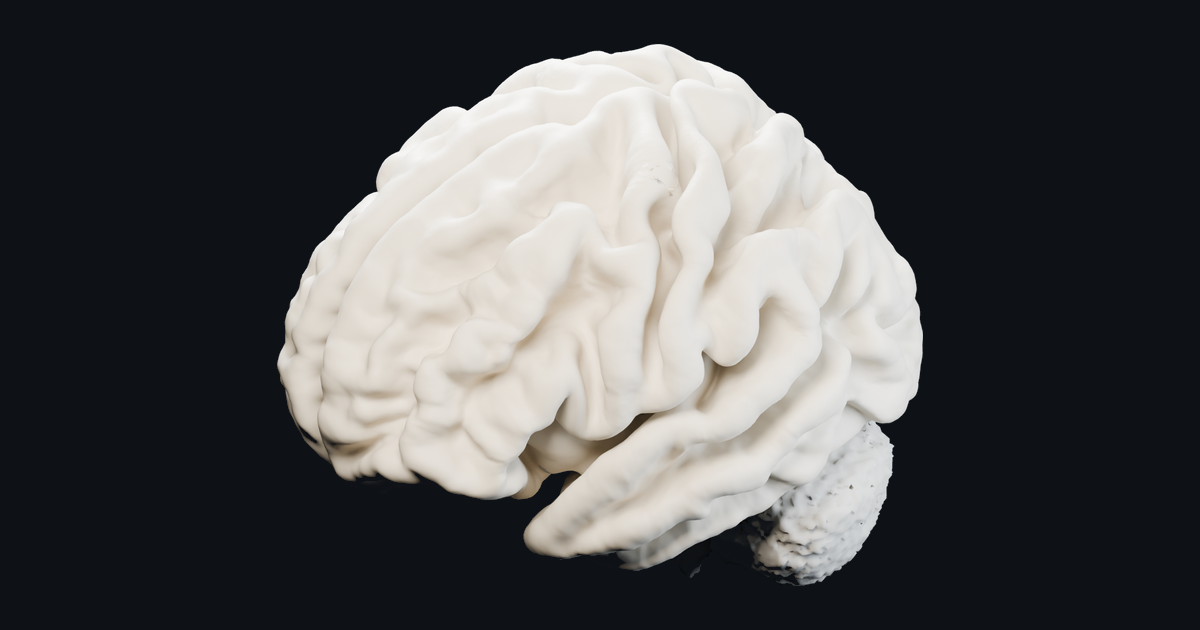
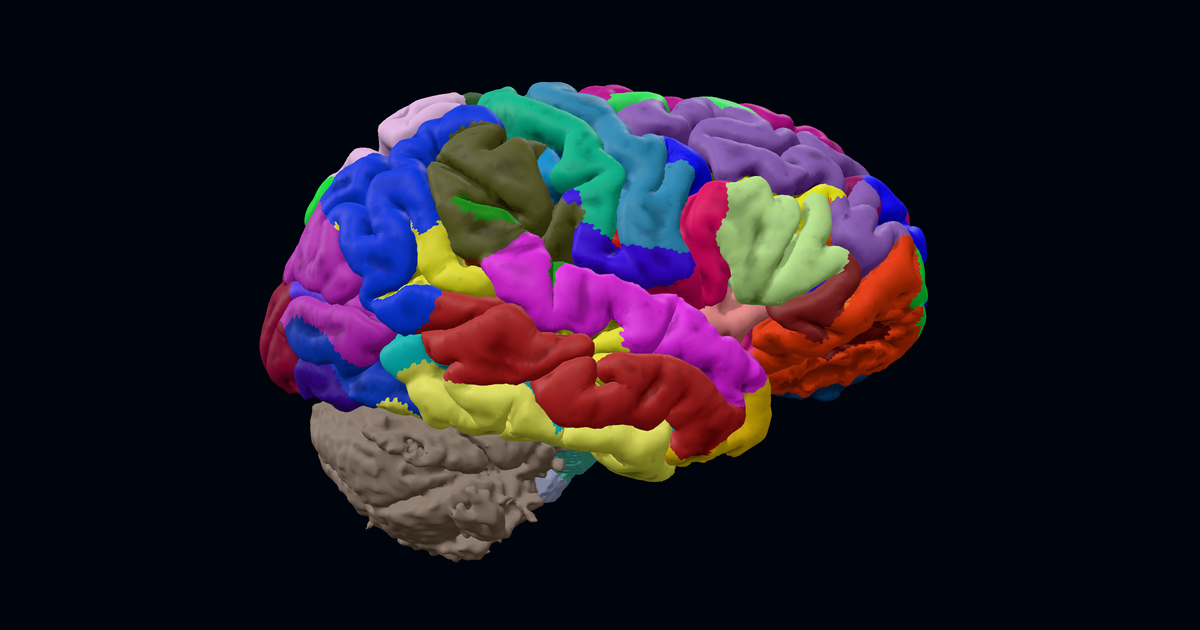
Fix stale model cache after deploys; update link preview image

diff --git a/viewer/service-worker.js b/viewer/service-worker.js
@@ -9,12 +9,12 @@
  * a previous deploy paired with a freshly deployed bundle fails to start — and
  * the wrong one for a reader who opens the atlas twice in a lecture.
  *
- * So freshness is settled by the cache's *name* rather than by revalidating
- * each file. `MODEL_VERSION` is a hash of what the published manifests say, so
- * publishing a new brain opens a new cache and the old one is deleted, while
- * deploying a code change alone leaves the model cache exactly where it is.
- * Within one version the bytes cannot have changed, so serving them from
- * storage without asking is not a guess.
+ * So freshness is settled by the URL rather than by revalidating each file.
+ * The page asks for every model file with `?v=<model version>`, a hash of the
+ * published model files, and entries are keyed by that full URL. A worker left
+ * over from the previous deploy still controls the first load after a new one;
+ * keyed by path alone it answered the new manifest with the old geometry.
+ * Deploying a code change alone leaves the version, and the cache, alone.
  *
  * Nothing is precached. A first visit fetches what it always did, at the speed
  * it always did, and fills the cache as it goes.
@@ -44,20 +44,31 @@ self.addEventListener('activate', event => {
 self.addEventListener('fetch', event => {
   const { request } = event;
   if (request.method !== 'GET') return;
+  // The page carries the model version its requests ask for, and GitHub Pages
+  // lets the browser keep it ten minutes. A stale page asks for the previous
+  // deploy's anatomy by name and pairs it with the current manifest, so the
+  // page is always revalidated; offline, the stored copy still opens.
+  if (request.mode === 'navigate') {
+    event.respondWith(fetch(request.url, { cache: 'no-cache', credentials: 'same-origin' })
+      .then(response => (response.redirected ? fetch(request) : response))
+      .catch(() => fetch(request)));
+    return;
+  }
   const url = new URL(request.url);
   if (url.origin !== self.location.origin || !CACHEABLE.test(url.pathname)) return;
 
   event.respondWith((async () => {
+    const key = url.pathname + url.search;
     const cache = await caches.open(MODEL_CACHE);
-    const stored = await cache.match(url.pathname);
+    const stored = await cache.match(key);
     if (stored) return stored;
-    // `no-cache` on the app's own request would defeat the point of storing
-    // this, and within a version there is nothing to revalidate against.
-    const response = await fetch(url.pathname, { cache: 'default' });
+    // Revalidate: the HTTP cache may still hold the previous deploy's bytes,
+    // and storing those under this version would pin them until the next one.
+    const response = await fetch(key, { cache: 'no-cache' });
     // A partial or failed response must not become the copy every later visit
     // gets; let the app see the error and try again next time.
     if (response.ok && response.status === 200) {
-      cache.put(url.pathname, response.clone()).catch(() => {});
+      cache.put(key, response.clone()).catch(() => {});
     }
     return response;
   })());

diff --git a/vite.config.js b/vite.config.js
@@ -7,8 +7,29 @@ import { parse } from 'yaml';
 
 const root = fileURLToPath(new URL('.', import.meta.url));
 
+/*
+ * One hash over every published model file. Hashing only the manifests missed
+ * geometry: the cortex and interior layers carry no checksum of their own.
+ */
+function modelVersion() {
+  const models = resolve(root, 'public/models');
+  const digest = createHash('sha256');
+  const walk = dir => {
+    for (const entry of readdirSync(dir, { withFileTypes: true }).sort((a, b) => a.name.localeCompare(b.name))) {
+      const path = resolve(dir, entry.name);
+      if (entry.isDirectory()) walk(path);
+      else digest.update(entry.name).update(readFileSync(path));
+    }
+  };
+  if (existsSync(models)) walk(models);
+  return digest.digest('hex').slice(0, 16);
+}
+
+const MODEL_VERSION = modelVersion();
+
 export default defineConfig({
   base: '/neuroatlas/',
+  define: { __MODEL_VERSION__: JSON.stringify(MODEL_VERSION) },
   build: {
     target: 'es2022',
     rollupOptions: {
@@ -45,32 +66,16 @@ export default defineConfig({
       },
     },
     {
-      /*
-       * Emit the service worker, stamped with a version derived from what the
-       * published manifests say rather than from this build. A code-only
-       * deploy then leaves a reader's cached anatomy alone; republishing a
-       * brain replaces it.
-       */
+      name: 'model-version-in-html',
+      transformIndexHtml: html => html.replace('__MODEL_VERSION__', MODEL_VERSION),
+    },
+    {
+      // Emit the service worker, stamped with the same model version the page
+      // puts on its requests.
       name: 'model-service-worker',
       closeBundle() {
-        const models = resolve(root, 'dist/models');
-        if (!existsSync(models)) return;
-        const digest = createHash('sha256');
-        // The manifests carry a checksum per published file, so hashing them
-        // covers every asset without reading a hundred megabytes of geometry.
-        for (const name of readdirSync(models).sort()) {
-          for (const file of ['manifest.json', 'tissue-labels.json', 'volumes.json']) {
-            const path = resolve(models, name, file);
-            if (existsSync(path)) digest.update(readFileSync(path));
-          }
-        }
-        const index = resolve(root, 'dist/models/anatomies.json');
-        if (existsSync(index)) digest.update(readFileSync(index));
         const source = readFileSync(resolve(root, 'viewer/service-worker.js'), 'utf8');
-        writeFileSync(
-          resolve(root, 'dist/sw.js'),
-          source.replace('__MODEL_VERSION__', digest.digest('hex').slice(0, 16)),
-        );
+        writeFileSync(resolve(root, 'dist/sw.js'), source.replace('__MODEL_VERSION__', MODEL_VERSION));
       },
     },
   ],

diff --git a/viewer/service-worker.test.js b/viewer/service-worker.test.js
@@ -38,8 +38,10 @@ function bootWorker({ version = 'testversion', origin = 'https://example.org' } 
   };
 
   const responses = new Map();
-  const fetchStub = async url => {
+  const fetchOptions = [];
+  const fetchStub = async (url, options) => {
     fetched.push(String(url));
+    fetchOptions.push(options);
     const made = responses.get(String(url))
       ?? { ok: true, status: 200, body: `bytes:${url}` };
     return { ...made, clone: () => ({ ...made }) };
@@ -49,14 +51,14 @@ function bootWorker({ version = 'testversion', origin = 'https://example.org' } 
   new Function('self', 'caches', 'fetch', 'URL',
     SOURCE.replace('__MODEL_VERSION__', version))(self, caches, fetchStub, URL);
 
-  const request = (url, method = 'GET') => {
+  const request = (url, method = 'GET', mode = 'cors') => {
     const handler = listeners.get('fetch');
     let answered;
-    handler({ request: { method, url }, respondWith: promise => { answered = promise; } });
+    handler({ request: { method, url, mode }, respondWith: promise => { answered = promise; } });
     return answered;
   };
 
-  return { self, listeners, storage, fetched, responses, request, caches };
+  return { self, listeners, storage, fetched, fetchOptions, responses, request, caches };
 }
 
 const modelUrl = (origin, file) => `${origin}/neuroatlas/models/bert/${file}`;
@@ -141,4 +143,30 @@ test('it takes over immediately rather than waiting for every tab to close', () 
   const worker = bootWorker();
   worker.listeners.get('install')({});
   assert.ok(worker.self.skipped);
+});
+
+test('a copy stored for one model version never answers a request for another', async () => {
+  const worker = bootWorker();
+  const url = modelUrl('https://example.org', 'cortex-destrieux.glb');
+  await worker.request(`${url}?v=old`);
+  await worker.request(`${url}?v=new`);
+  assert.deepEqual(worker.fetched, [
+    '/neuroatlas/models/bert/cortex-destrieux.glb?v=old',
+    '/neuroatlas/models/bert/cortex-destrieux.glb?v=new',
+  ]);
+});
+
+test('filling the cache revalidates instead of trusting the HTTP cache', async () => {
+  const worker = bootWorker();
+  await worker.request(modelUrl('https://example.org', 'learning.glb'));
+  assert.equal(worker.fetchOptions[0].cache, 'no-cache');
+});
+
+test('the page itself is always revalidated, so its model version is current', async () => {
+  const worker = bootWorker();
+  const answered = worker.request('https://example.org/neuroatlas/', 'GET', 'navigate');
+  assert.ok(answered, 'navigations are answered by the worker');
+  await answered;
+  assert.deepEqual(worker.fetched, ['https://example.org/neuroatlas/']);
+  assert.equal(worker.fetchOptions[0].cache, 'no-cache');
 });

diff --git a/viewer/app.js b/viewer/app.js
@@ -3,6 +3,7 @@ import { createCatalog } from './catalog/catalog.js';
 import { loadClinicalCatalog } from './clinical/load.js';
 import { openClinicalRegion } from './clinical/navigation.js';
 import { BrainAtlas } from './model/brain-atlas.js';
+import { reloadWithoutStoredModels } from './model/published-assets.js';
 import { VIEW_DIRECTIONS, fitDistance, frameTo, upFor } from './render/camera-views.js';
 import { DOLLY_KEYS, ORBIT_KEYS, dolliedPosition, orbitedPosition } from './render/keyboard-orbit.js';
 import { createPicker } from './render/picking.js';
@@ -92,10 +93,13 @@ export async function startApp() {
   // The colophon links the manifest of the brain actually on screen, which is
   // not knowable until the index has been read.
   document.getElementById('provenance')?.setAttribute('href', manifestUrl);
+  // The layers download in parallel. Once one has failed, the other's
+  // progress must not paint "Loading" back over the error.
+  let loadFailed = false;
   const model = await BrainAtlas.load(manifestUrl, wanted.atlas, {
     detail: wanted.detail,
     onProgress: progress => {
-      if (!progress?.total) return;
+      if (loadFailed || !progress?.total) return;
       session.setProgress({ loaded: progress.loaded, total: progress.total });
       const bar = document.getElementById('stage-bar');
       const message = document.getElementById('stage-message');
@@ -105,6 +109,9 @@ export async function startApp() {
       message.textContent = t(initialLang, 'viewport')
         .loadingWithTotal(progress.loaded, progress.total);
     },
+  }).catch(error => {
+    loadFailed = true;
+    throw error;
   });
 
   const catalog = createCatalog(model.manifest, initialLang);
@@ -639,7 +646,7 @@ export async function startApp() {
   chrome = createViewportChrome({
     networks: model.manifest.networks,
     onView: applyView,
-    onRetry: () => globalThis.location.reload(),
+    onRetry: reloadWithoutStoredModels,
     onSnapshot,
   });
   chrome.setViewport(scene.visibleRect);

diff --git a/index.html b/index.html
@@ -20,7 +20,7 @@
     <meta property="og:image" content="https://joshuaduq.github.io/neuroatlas/preview.png" />
     <meta property="og:image:width" content="1200" />
     <meta property="og:image:height" content="630" />
-    <meta property="og:image:alt" content="A full-resolution reconstruction of one person's cerebral cortex and cerebellum, lit from the left on a dark field, with every gyrus and sulcus of the source surface visible." />
+    <meta property="og:image:alt" content="A full-resolution reconstruction of one person's right cerebral hemisphere and cerebellum, seen from the side on a dark field, with each Destrieux cortical region in its own colour." />
     <meta name="twitter:card" content="summary_large_image" />
     <!-- Matches --surface-base in dark mode (default layout). -->
     <meta name="theme-color" content="#1c222b" />
@@ -38,10 +38,12 @@
         // Same prefix as vite.config.js `base`, so a missing trailing slash
         // on the page URL cannot send 25 MB at the site root.
         var root = '/neuroatlas/';
+        // Keyed by the plain URL, fetched with the model version, as `fetchPublished` does.
+        var version = '__MODEL_VERSION__';
         function start(file) {
           var url = new URL(root + file, location.origin).href;
           if (!window.__neuroatlasAssets[url]) {
-            window.__neuroatlasAssets[url] = fetch(url, { cache: 'no-cache', priority: 'high' });
+            window.__neuroatlasAssets[url] = fetch(url + '?v=' + version, { cache: 'no-cache', priority: 'high' });
           }
           return window.__neuroatlasAssets[url];
         }

diff --git a/viewer/model/published-assets.js b/viewer/model/published-assets.js
@@ -13,7 +13,35 @@
  */
 export const REVALIDATE = { cache: 'no-cache', priority: 'high' };
 
-export const fetchPublished = (url, options) => fetch(url, { ...REVALIDATE, ...options });
+/**
+ * Hash of the published model files, stamped in by the build. It rides on
+ * every request so the service worker and the CDN key each file by version.
+ */
+export const MODEL_VERSION = typeof __MODEL_VERSION__ === 'string' ? __MODEL_VERSION__ : '';
+
+export function versioned(url) {
+  if (!MODEL_VERSION) return String(url);
+  const pinned = new URL(url, globalThis.location?.href);
+  pinned.searchParams.set('v', MODEL_VERSION);
+  return pinned.href;
+}
+
+export const fetchPublished = (url, options) => fetch(versioned(url), { ...REVALIDATE, ...options });
+
+/**
+ * Reload without the stored anatomy. A retry follows a failure the reader
+ * cannot diagnose, and a bad stored copy would otherwise fail the same way.
+ */
+export async function reloadWithoutStoredModels() {
+  try {
+    for (const name of await caches.keys()) {
+      if (name.startsWith('neuroatlas-models-')) await caches.delete(name);
+    }
+  } catch {
+    // No Cache Storage (or blocked): a plain reload is all there is.
+  }
+  globalThis.location.reload();
+}
 
 /** The same instruction, for loaders that build their own request. */
 export const REVALIDATE_HEADER = { 'Cache-Control': 'no-cache' };

diff --git a/viewer/model/published-assets.test.js b/viewer/model/published-assets.test.js
@@ -1,0 +1,18 @@
+import assert from 'node:assert/strict';
+import test from 'node:test';
+
+test('every published request carries the model version the build stamped', async () => {
+  globalThis.__MODEL_VERSION__ = 'abc123';
+  const original = globalThis.fetch;
+  const seen = [];
+  globalThis.fetch = async (url, options) => { seen.push([url, options]); return new Response(''); };
+  try {
+    const { fetchPublished } = await import(`./published-assets.js?case=${Date.now()}`);
+    await fetchPublished('https://example.test/neuroatlas/models/bert/learning.glb');
+    assert.equal(seen[0][0], 'https://example.test/neuroatlas/models/bert/learning.glb?v=abc123');
+    assert.equal(seen[0][1].cache, 'no-cache');
+  } finally {
+    globalThis.fetch = original;
+    delete globalThis.__MODEL_VERSION__;
+  }
+});

diff --git a/viewer/main.js b/viewer/main.js
@@ -1,4 +1,5 @@
 import { startApp } from './app.js';
+import { reloadWithoutStoredModels } from './model/published-assets.js';
 import './styles/tokens.css';
 import './styles/base.css';
 import './styles/layout.css';
@@ -31,7 +32,7 @@ function fail(message, { retryable }) {
   document.getElementById('stage-message').textContent = message;
   const retry = document.getElementById('stage-retry');
   retry.hidden = !retryable;
-  if (retryable) retry.addEventListener('click', () => globalThis.location.reload());
+  if (retryable) retry.addEventListener('click', reloadWithoutStoredModels);
 }
 
 /**
